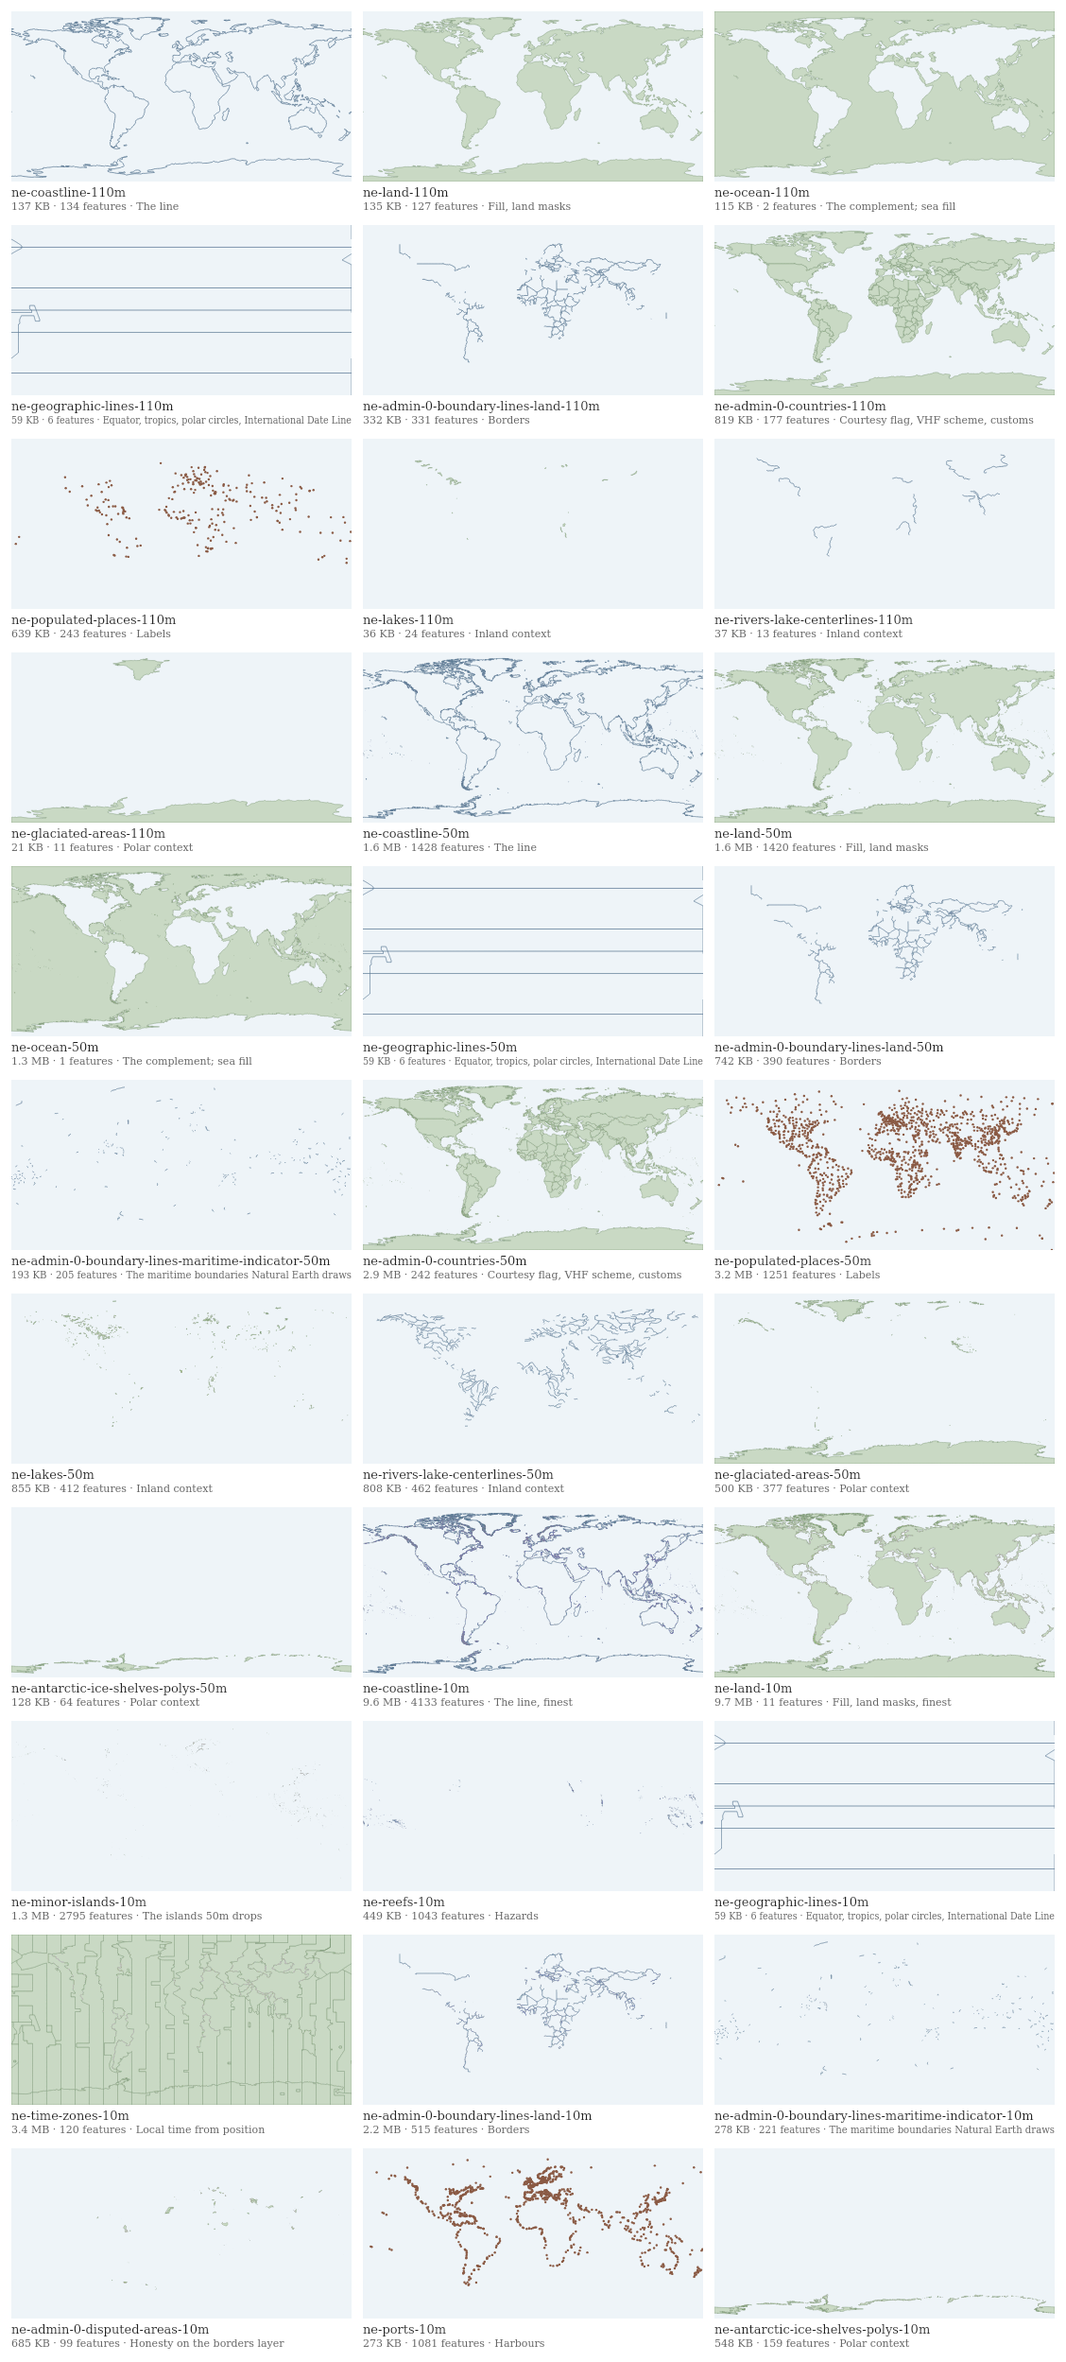
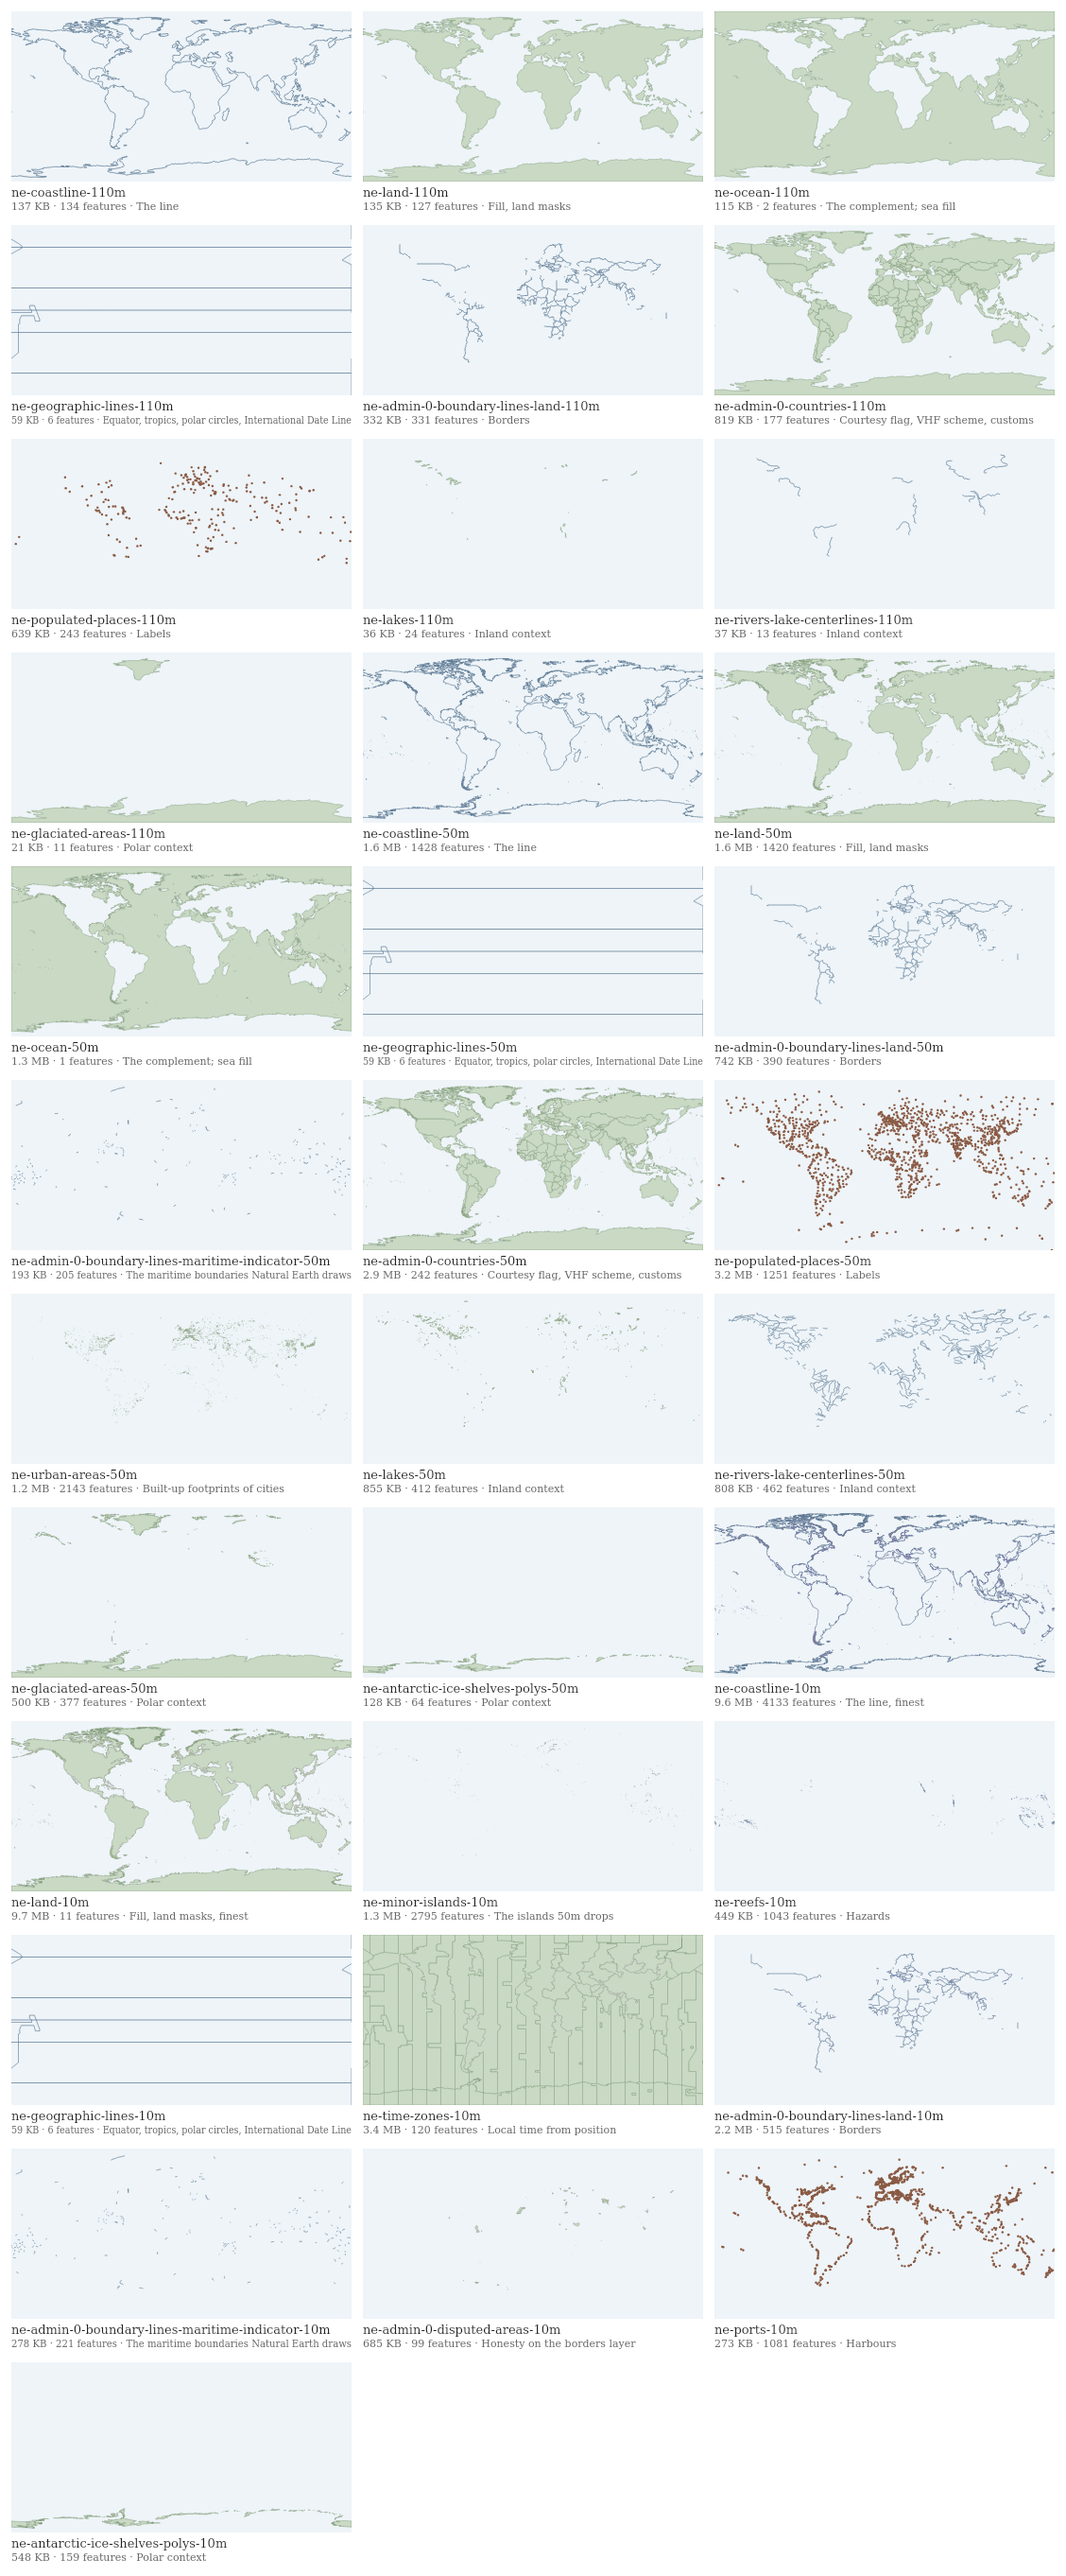
feat: urban-area polygons at 50m (#28)

diff --git a/README.md b/README.md
@@ -82,6 +82,7 @@ published shapefile, with the two licence notices that travel with it.
 | `ne-admin-0-boundary-lines-maritime-indicator-50m` | admin_0_boundary_lines_maritime_indicator | 50m | lines | 193 KB | The maritime boundaries Natural Earth draws |
 | `ne-admin-0-countries-50m` | admin_0_countries | 50m | polygons | 2.9 MB | Courtesy flag, VHF scheme, customs |
 | `ne-populated-places-50m` | populated_places | 50m | points | 3.2 MB | Labels |
+| `ne-urban-areas-50m` | urban_areas | 50m | polygons | 1.2 MB | Built-up footprints of cities |
 | `ne-lakes-50m` | lakes | 50m | polygons | 855 KB | Inland context |
 | `ne-rivers-lake-centerlines-50m` | rivers_lake_centerlines | 50m | lines | 808 KB | Inland context |
 | `ne-glaciated-areas-50m` | glaciated_areas | 50m | polygons | 500 KB | Polar context |
